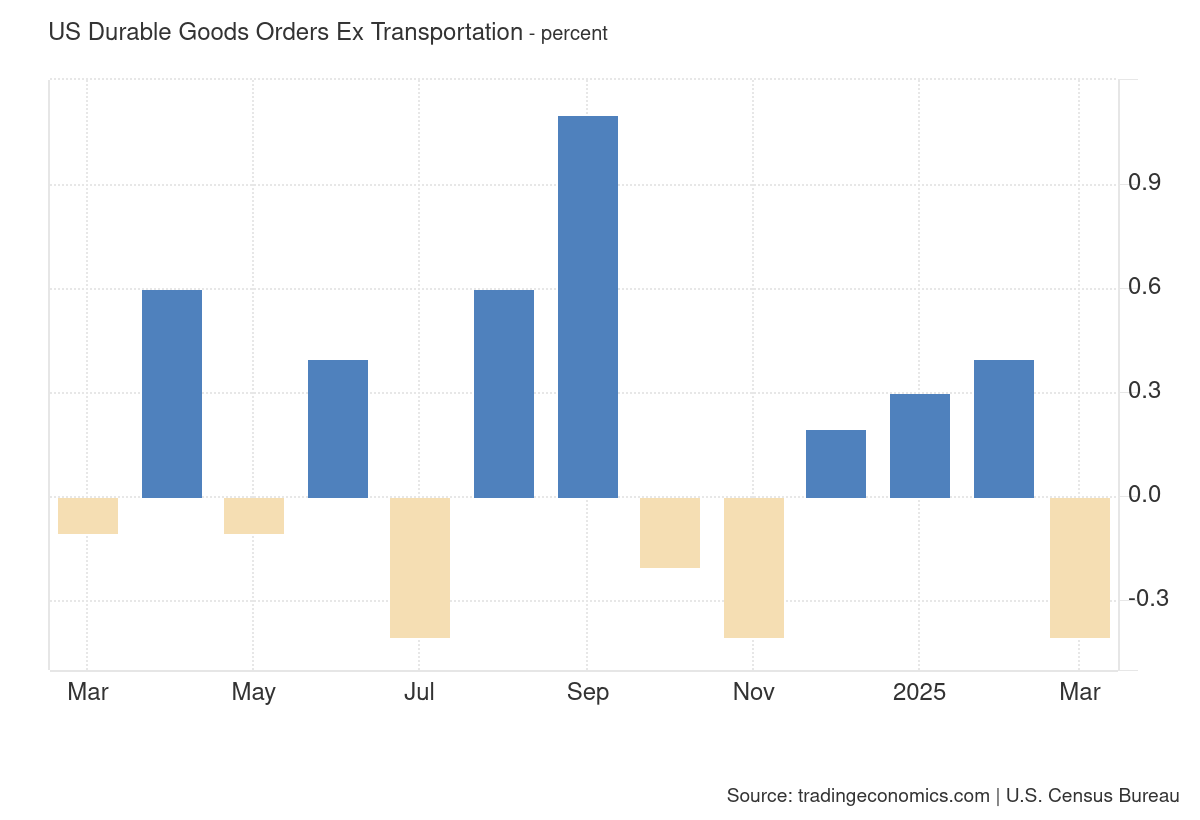
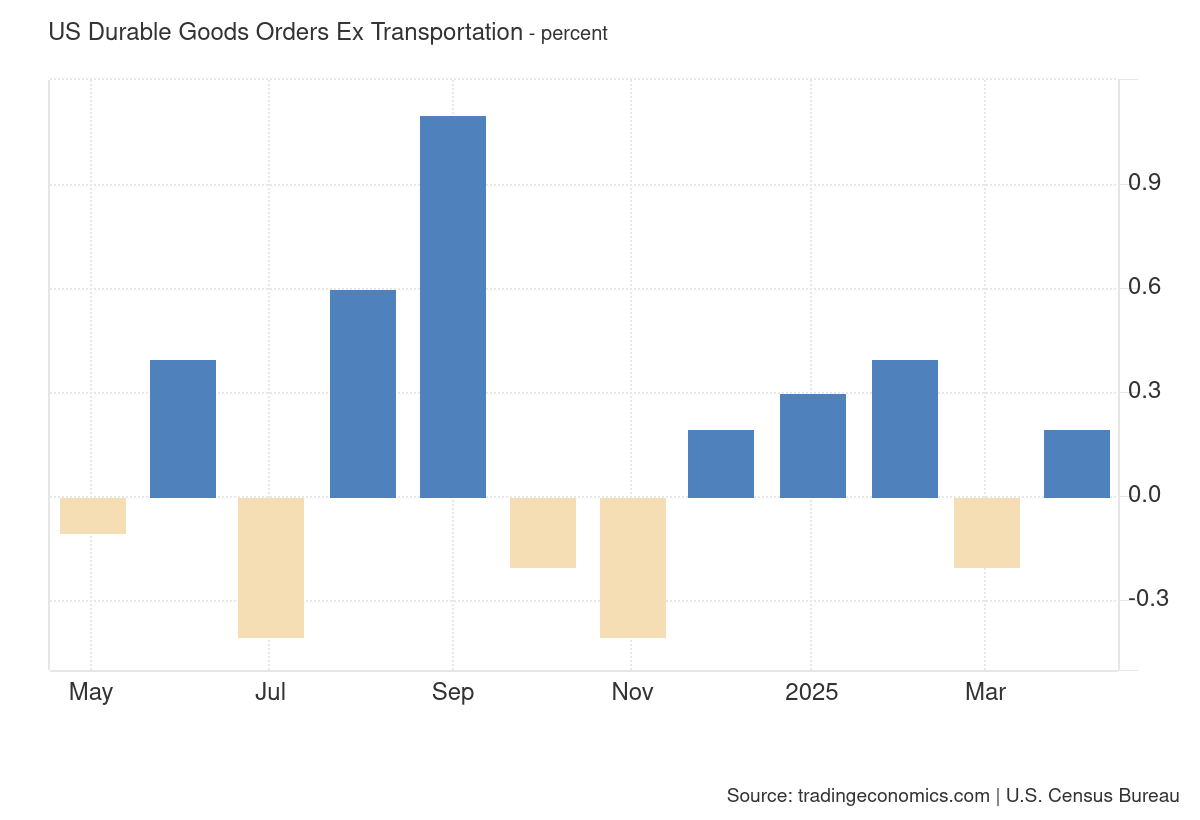
update durables

diff --git a/crablox/hauls/durable_goods/__init__.py b/crablox/hauls/durable_goods/__init__.py
@@ -2,12 +2,15 @@ from fasthtml.common import A, Card, Div, Img, Li, Ul, H3, Style
 
 from hauls.components import get_details, get_history
 
-title = "Dur Goods · -0.4%"
+title = "Dur Goods · 0.2%"
 short = "Goods"
 style = "background-color: var(--pico-color-yellow-500); border-color: var(--pico-color-yellow-300);"
 caption = "Durable Goods"
-summary = "Durable Goods Orders Excluding Transportation in the United States decreased 0.4% month-over-month in March 2025, compared to initial estimates of a flat reading."
-details_file = "2025-03.md"
+summary = "Durable goods orders excluding transportation in the United States rose by 0.2% month-over-month in April 2025."
+details_file = "2025-04.md"
+description = """### Description
+Durable goods orders excluding transportation, often called "core durable goods orders," measure the change in new orders for long-lasting manufactured goods, excluding transportation equipment. This metric is used to gauge trends in manufacturing activity and economic conditions.
+"""
 
 
 def history():
@@ -30,7 +33,7 @@ def content():
             onclick="openLightbox(this)",
         ),
         Card(
-            Div(details(), cls="marked"),
+            Div(details(), description, cls="marked"),
             cls="wlv-details",
             header="US Durable Goods",
             footer=(
@@ -47,6 +50,13 @@ def content():
                         A(
                             "Trading Economics",
                             href="https://tradingeconomics.com/united-states/durable-goods-orders-ex-transportation",
+                            target="_blank",
+                        )
+                    ),
+                    Li(
+                        A(
+                            "Skool",
+                            href="https://www.skool.com/tradingbusiness/when-airlines-stop-buying-planes-aprils-durable-goods?p=a394713d",
                             target="_blank",
                         )
                     ),

diff --git a/crablox/hauls/durable_goods/2025-04.md b/crablox/hauls/durable_goods/2025-04.md
@@ -1,0 +1,18 @@
+# 0.2
+
+## United States Durable Goods Orders
+
+### New Orders Excluding Transportation
+
+> New orders for manufactured durable goods in April, down following four consecutive monthly increases, decreased $19.9 billion or 6.3 percent to $296.3 billion, the U.S. Census Bureau announced today. This followed a 7.6 percent March increase. Excluding transportation, new orders increased 0.2 percent. Excluding defense, new orders decreased 7.5 percent. Transportation equipment, also down following four consecutive monthly increases, drove the decrease, $20.3 billion or 17.1 percent to $98.8 billion. 
+
+The damage:
+
+* Total orders down 6.3% 📉
+* Ex-transportation actually up 0.2% 🤔
+
+Transportation got absolutely destroyed (-17.1%) because Boeing basically had no orders (8 total 😆). Airlines scared of tariffs = no plane buying.
+
+The real issue though: Capital goods down 14.6% again. That's businesses not investing in equipment/growth. Way more concerning than the volatile plane action.
+
+1 out of 3 key indicators showing weakness. I would prefer to see some more confirmation in the others before leaping to a hard conclusion of continued negative GDP QoQ for Q2.

diff --git a/crablox/hauls/durable_goods/2025-03.md b/crablox/hauls/durable_goods/2025-03.md
@@ -1,15 +1,11 @@
 # -0.4
 
-## United States Durable Goods Orders Excluding Transportation
+## United States Durable Goods Orders
 
-### New Orders
+### New Orders Excluding Transportation
 
 New orders for manufactured durable goods in March, up three consecutive months, increased $26.6
 billion or 9.2 percent to $315.7 billion, the U.S. Census Bureau announced today. This followed a 0.9
 percent February increase. Excluding transportation, new orders were virtually unchanged. Excluding
 defense, new orders increased 10.4 percent. Transportation equipment, also up three consecutive
 months, led the increase, $26.5 billion or 27.0 percent to $124.6 billion.
-
-### Description
-
-Durable goods orders excluding transportation, often called "core durable goods orders," measure the change in new orders for long-lasting manufactured goods, excluding transportation equipment. This metric is used to gauge trends in manufacturing activity and economic conditions.
